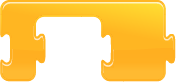
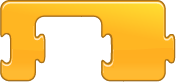
Remove Blocks Jr blue focus boundary

diff --git a/editions/free/src/css/editor.css b/editions/free/src/css/editor.css
@@ -351,6 +351,10 @@ div.frame {
     outline-offset: 4px;
 }
 
+#blockspalette .paletteblock:focus-visible{
+    outline: none;
+}
+
 #blockspalette .yellow { background: #FFE75A;}    /* #ffe100;}{ background: #FFFA5A;} */
 #blockspalette .blue { background: #4B8CC2;}
 #blockspalette .pink { background: #CD7CD1;}
@@ -544,13 +548,11 @@ z-index: 5;
 }
 
 #scriptscontainer .keyboard-script-strip:focus-visible {
-    outline-offset: 6px;
-    border-radius: 12px;
+    outline: none;
 }
 
 #scriptscontainer .keyboard-script-strip[aria-pressed="true"]:not(:focus-visible) {
-    box-shadow: 0 0 0 3px rgba(15, 95, 255, 0.35);
-    border-radius: 12px;
+    box-shadow: none;
 }
 
 .watermark {
